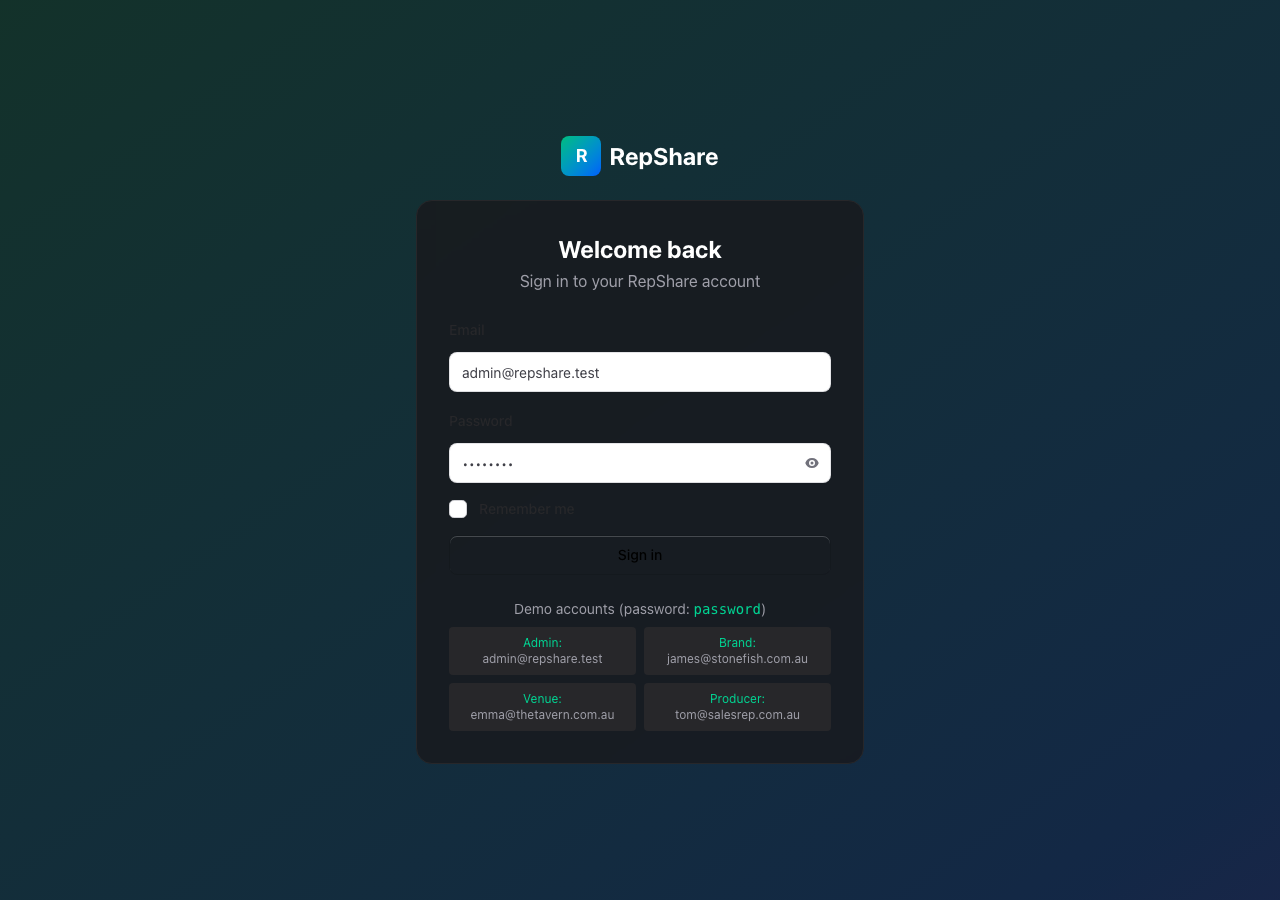
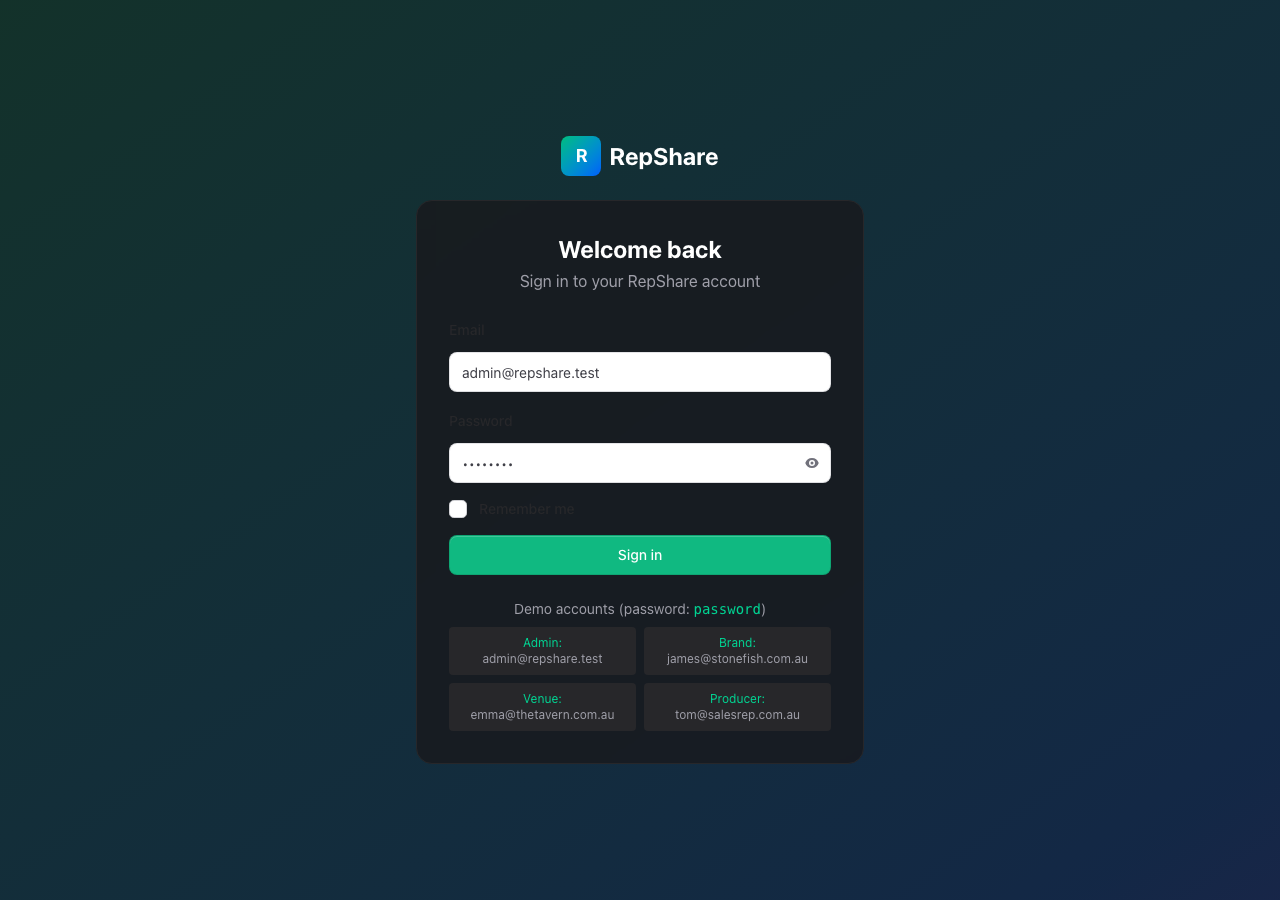
fix: Add Flux source paths for proper sidebar styling

Changed region(s): [[0.3438, 0.5911, 0.6562, 0.6533]]

diff --git a/screenshot.js b/screenshot.js
@@ -1,9 +1,20 @@
 import { chromium } from 'playwright';
 
 const browser = await chromium.launch();
-const page = await browser.newPage({ viewport: { width: 1280, height: 900 } });
+const context = await browser.newContext({ 
+    viewport: { width: 1280, height: 900 },
+    storageState: undefined
+});
+const page = await context.newPage();
+
+// Login first
 await page.goto('https://repshare.sbarron.com/login');
 await page.waitForLoadState('networkidle');
-await page.screenshot({ path: 'login-screenshot.png', fullPage: true });
+await page.fill('input[type="email"]', 'admin@repshare.test');
+await page.fill('input[type="password"]', 'password');
+await page.click('button[type="submit"]');
+await page.waitForURL('**/admin/dashboard');
+await page.waitForLoadState('networkidle');
+await page.screenshot({ path: 'dashboard-screenshot.png', fullPage: true });
 await browser.close();
 console.log('Screenshot saved');

diff --git a/resources/css/app.css b/resources/css/app.css
@@ -1,6 +1,8 @@
 @import 'tailwindcss';
 
 @source '../../vendor/laravel/framework/src/Illuminate/Pagination/resources/views/*.blade.php';
+@source '../../vendor/livewire/flux/stubs/**/*.blade.php';
+@source '../../vendor/livewire/flux-pro/stubs/**/*.blade.php';
 @source '../../storage/framework/views/*.php';
 @source '../**/*.blade.php';
 @source '../**/*.js';
